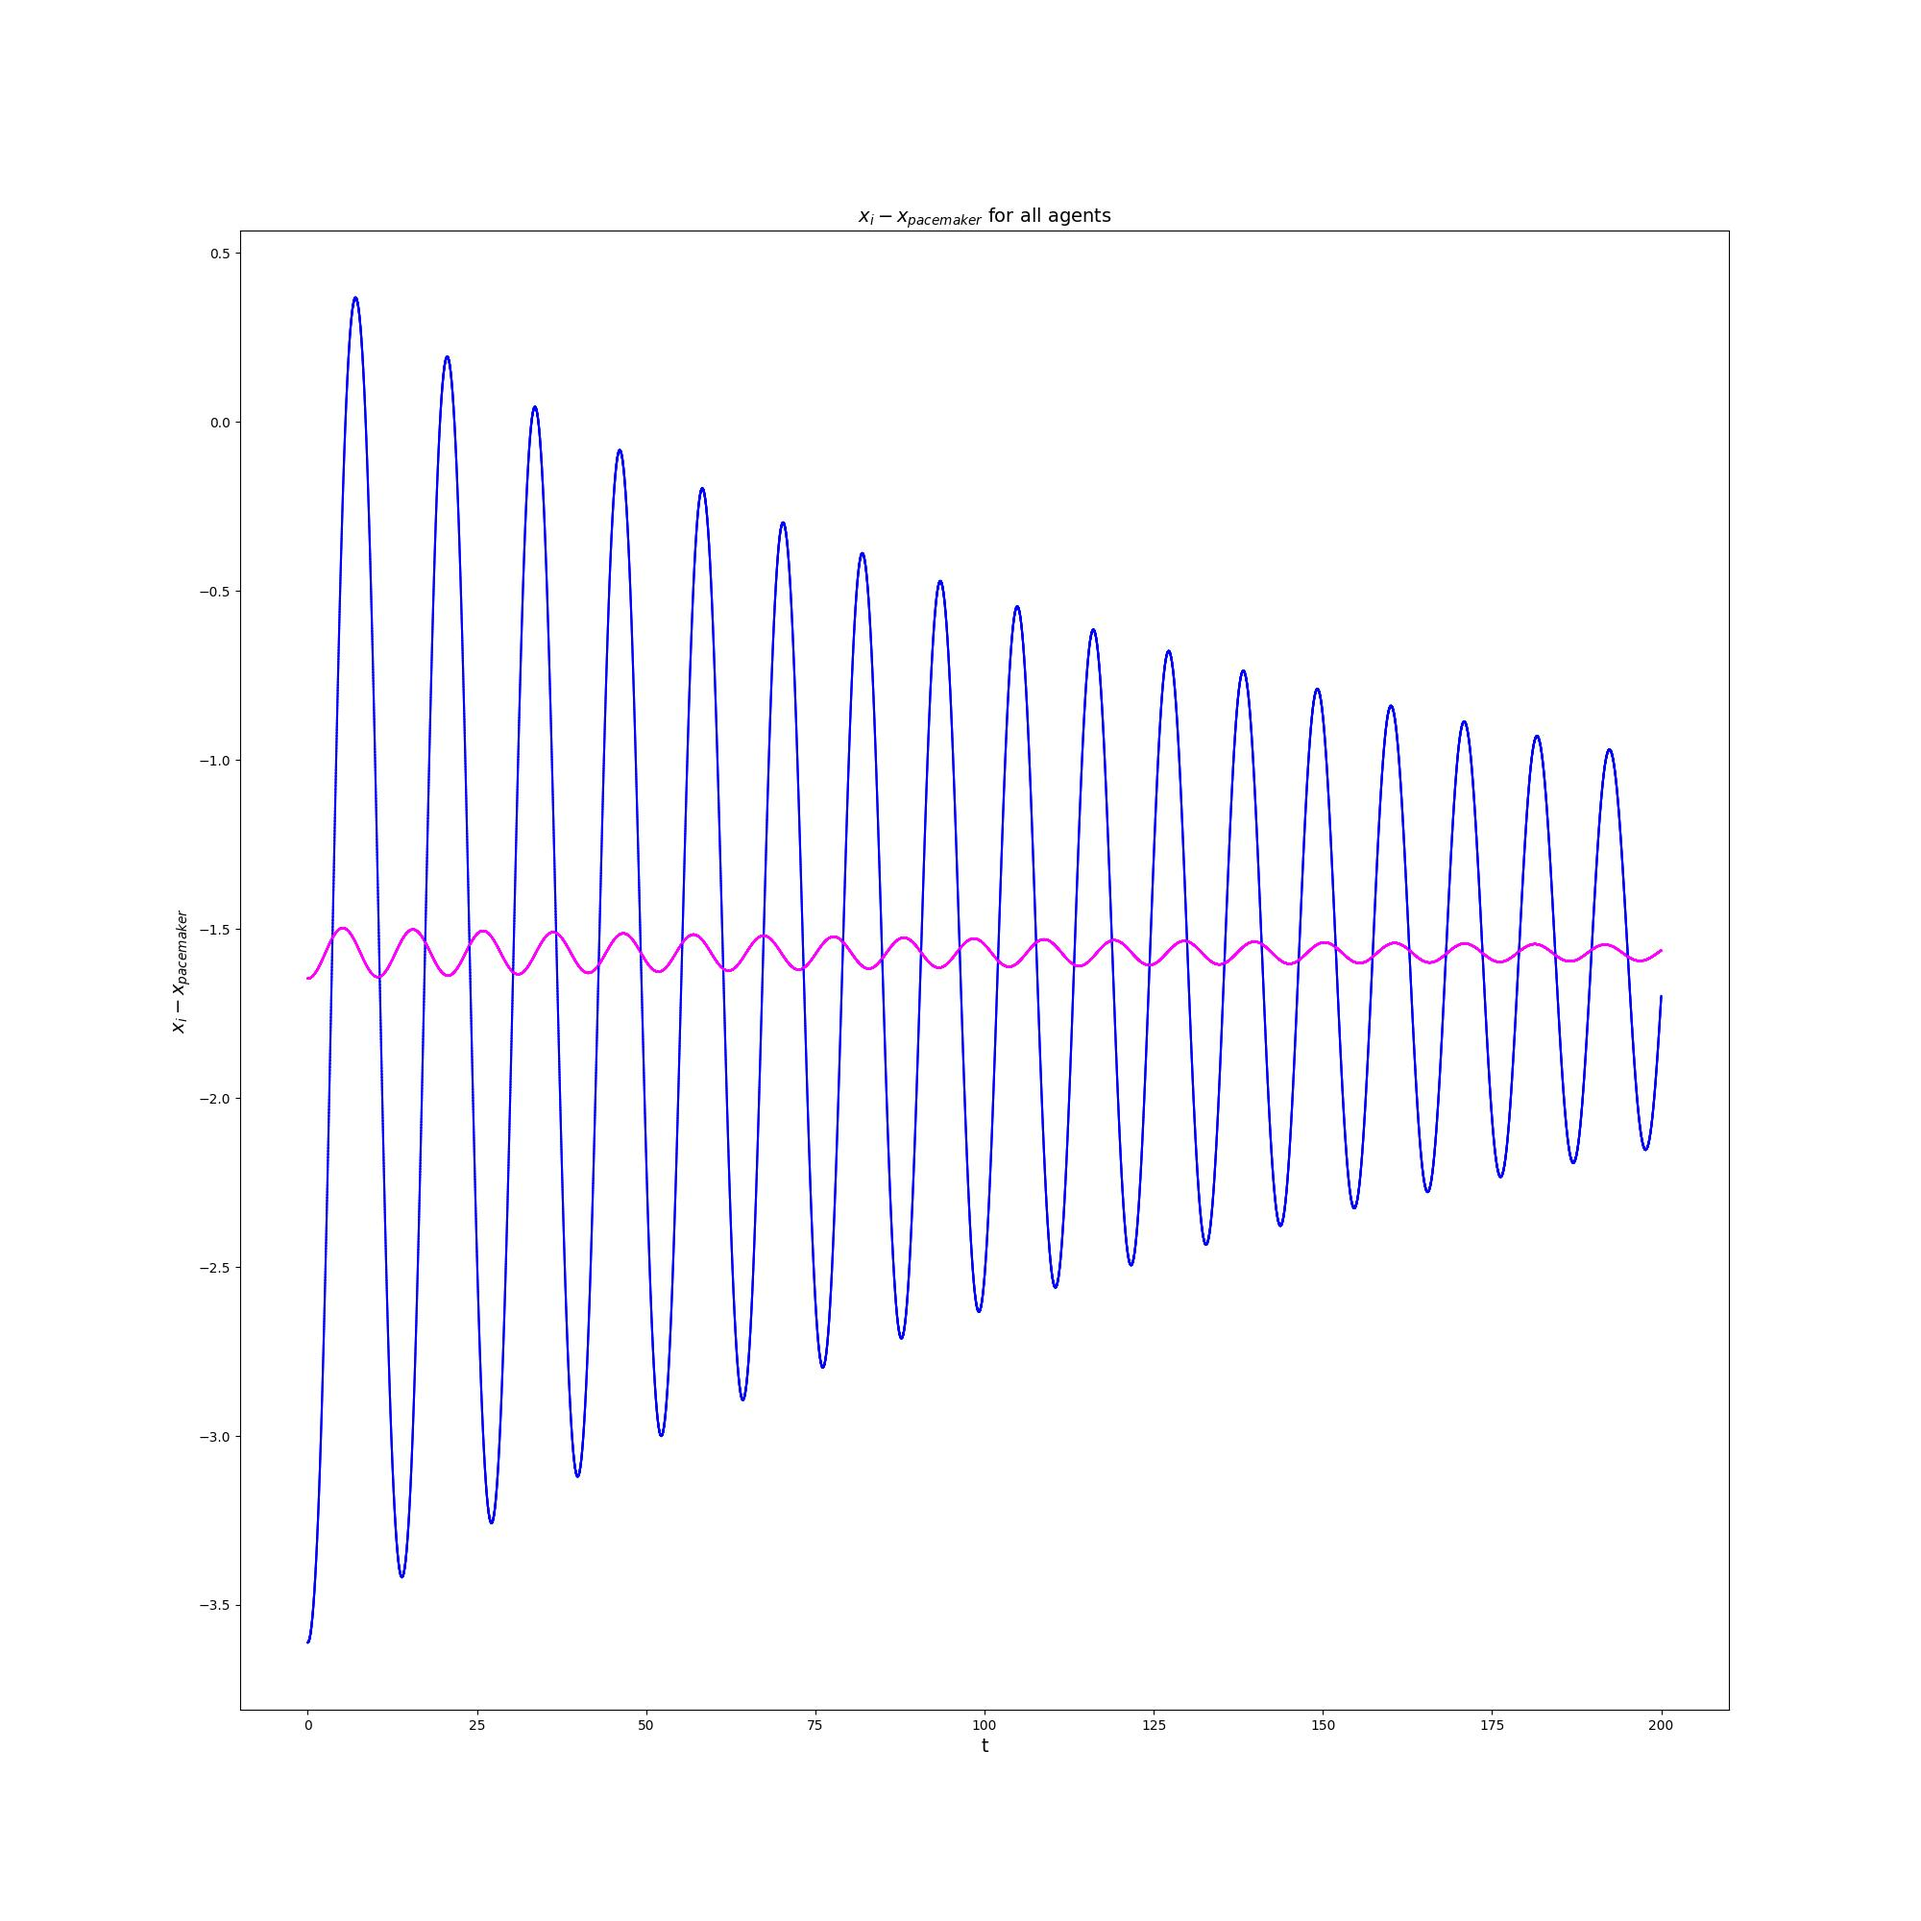
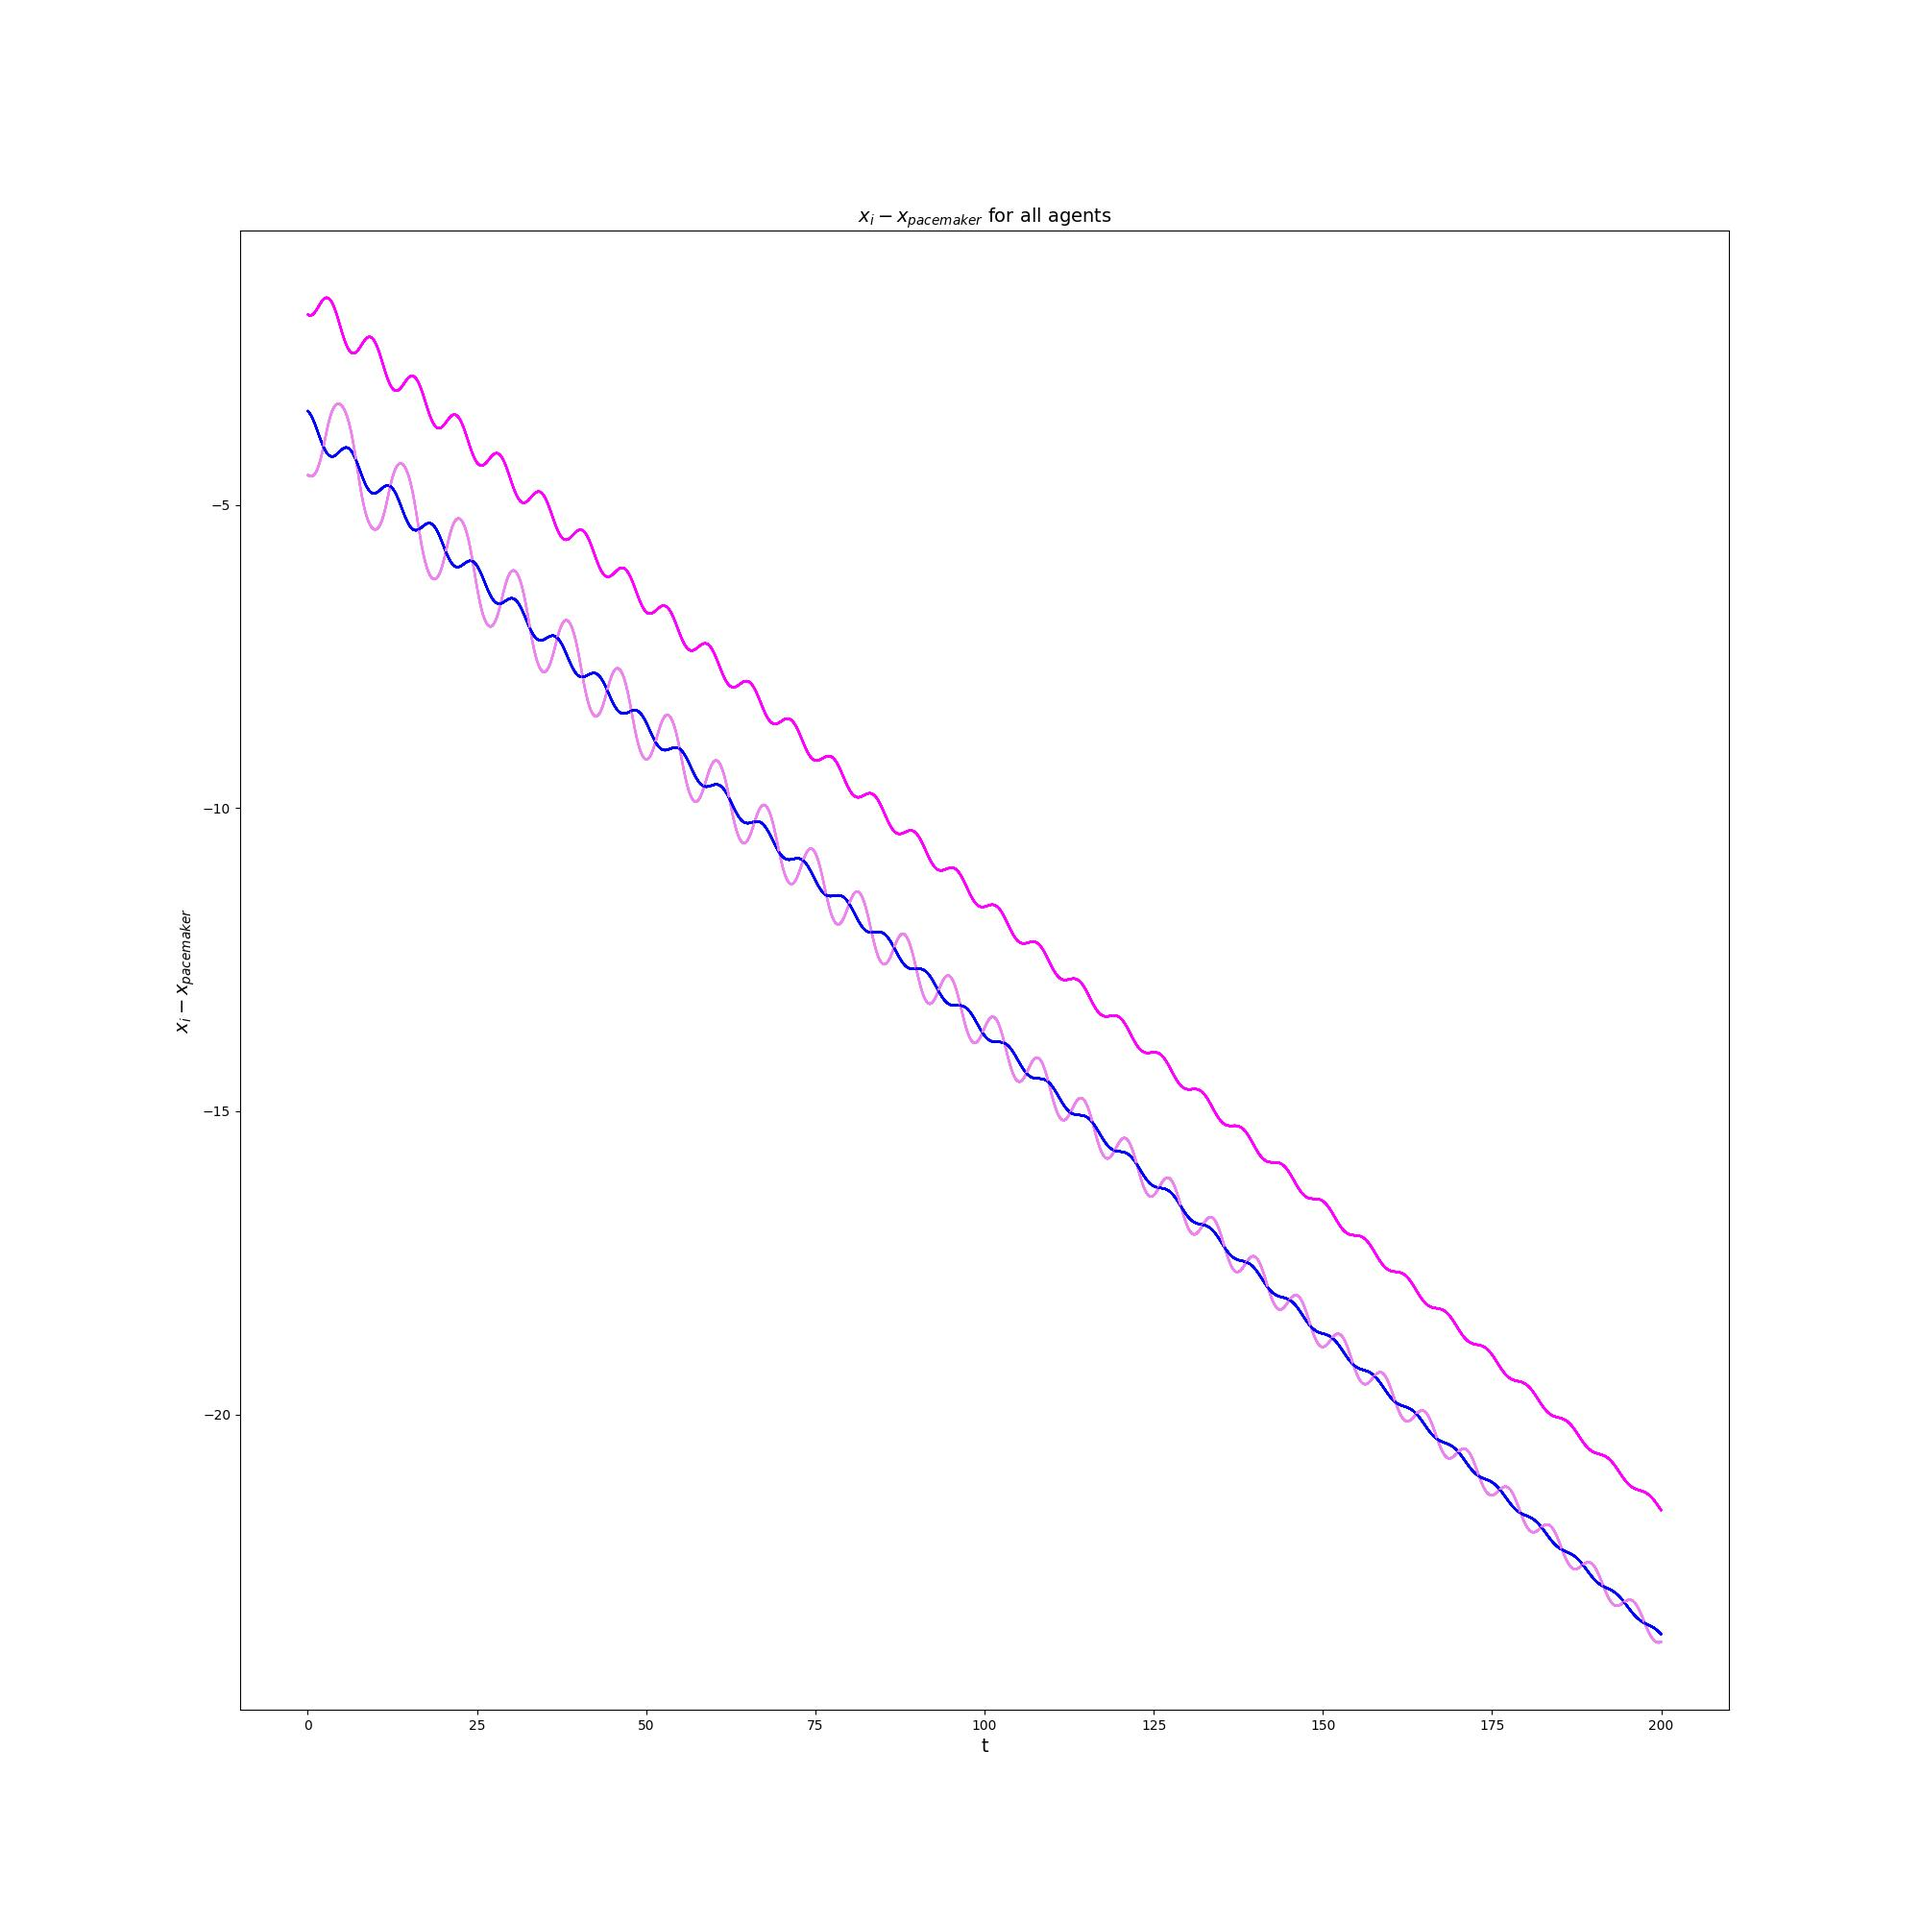
trying to make complex motion in cruise control

diff --git a/controllers/swarm_python/cruise.py b/controllers/swarm_python/cruise.py
@@ -6,6 +6,9 @@ from point_mass import Agent_1D, Pacemaker
 from matplotlib.patches import Circle
 from tqdm import tqdm
 from functools import partial
+from scipy import integrate
+from scipy.interpolate import interp1d
+from scipy.optimize import root_scalar
 
 n_params = 6
 gravity = 0.981
@@ -32,11 +35,30 @@ colorize_perception_area = True
 points_colors = ["magenta", "blue", "violet", "black", "brown", "aquamarine", "aqua", "gold", "coral", "chocolate", "purple", "teal", "pink", "gold", "violet", "magenta"]
 circle_colors = ["blue", "green", "red"]
 
-pacemaker_velocity = -0.0
+pacemaker_velocity = -0.1
 pacemaker_acc = -0.25
+
+integrand = lambda t: np.sqrt(64 + 9 * np.cos(3 * t)**2)
 pacemaker_motion_func = lambda t: pacemaker_velocity * t
 spatial_traj_func = lambda s: np.array([8 * np.cos(s), 8 * np.sin(s), np.sin(3 * s)])
-spatial_traj_derivative_func = lambda s: np.array([-8 * np.sin(s), 8 * np.cos(s), 3 * np.cos(s)])
+spatial_traj_derivative_func = lambda s: np.array([-8 * np.sin(s), 8 * np.cos(s), 3 * np.cos(3 * s)])
+
+
+def forward_integrate(t):
+    res, _ = integrate.quad(integrand, 0, t)
+    return res
+
+
+def reverse_integrate(s, t_guess=1.0):
+    sol = root_scalar(lambda t: forward_integrate(t) - s, 
+                      bracket=[0, 2 * np.pi],  
+                      method='brentq')  
+    return sol.root
+
+
+t_values = np.linspace(-6 * np.pi, 6 * np.pi, 200000)
+s_values = np.array([forward_integrate(t) for t in t_values])
+t_interpolator = interp1d(s_values, t_values, kind='cubic', fill_value="extrapolate")
 
 
 def sign(x):
@@ -203,7 +225,7 @@ def animate(i, spatial_traj_func=spatial_traj_func, dt=0.01):
     plt.ylabel('y')
 
     plt.gca().set_aspect('equal', adjustable='box')
-    traj_circle = Circle(xy=(0, 0), radius=5.0, color="green", fill=False)
+    traj_circle = Circle(xy=(0, 0), radius=8.0, color="green", fill=False)
     plt.gca().add_artist(traj_circle)
 
     x_pacemaker, y_pacemaker, z_pacemaker = spatial_traj_func(pacemaker_pose)
@@ -248,15 +270,16 @@ def animate_3d(i, spatial_traj_func=spatial_traj_func, pacemaker_motion_func=pac
 
     points = np.array(nums).reshape(-1, n_params)
     pacemaker_pose = pacemaker_motion_func(t)
-    x_pacemaker, y_pacemaker, z_pacemaker = spatial_traj_func(pacemaker_pose)
+    pacemaker_t_param = t_interpolator(pacemaker_pose)
+    x_pacemaker, y_pacemaker, z_pacemaker = spatial_traj_func(pacemaker_t_param)
     ax_3d.scatter(x_pacemaker, y_pacemaker, z_pacemaker, s=s_anchor_3d, color="red")
-    #print(f"i = {i}, t = {t}, pose = {pacemaker_pose}, x = {x_pacemaker}, y = {y_pacemaker}, z = {z_pacemaker}")
 
     for point in points:
         pose, dpose, u, peer_state, id, is_alive = point
 
         if int(is_alive) > 0:
-            x, y, z = spatial_traj_func(pose)
+            point_t_param = t_interpolator(pose)
+            x, y, z = spatial_traj_func(point_t_param)
             ax_3d.scatter(x, y, z, s=s_point_3d, color="blue")
 
 
@@ -349,14 +372,14 @@ def run(scene_name,
             spatial_traj_func,
             spatial_traj_derivative_func)
     
-    create_gif(log_path, 
+    '''create_gif(log_path, 
                gif_path_xy, 
                spatial_traj_func, 
                pacemaker_motion_func, 
                dt, 
                frame_step=10,
                n_frames=n_iters,
-               flag="xy")
+               flag="xy")'''
     
     create_gif(log_path, 
                gif_path_3d, 
@@ -366,13 +389,14 @@ def run(scene_name,
                frame_step=25,
                n_frames=n_iters,
                flag="3d")
-    
+
     plot_graph(log_path, graph_path, dt=dt)
 
 run("cruise_control_spatial", 
-    2, 
+    3, 
     spatial_traj_func,
     spatial_traj_derivative_func,
     pacemaker_motion_func,
     20000,
     0.01)
+
